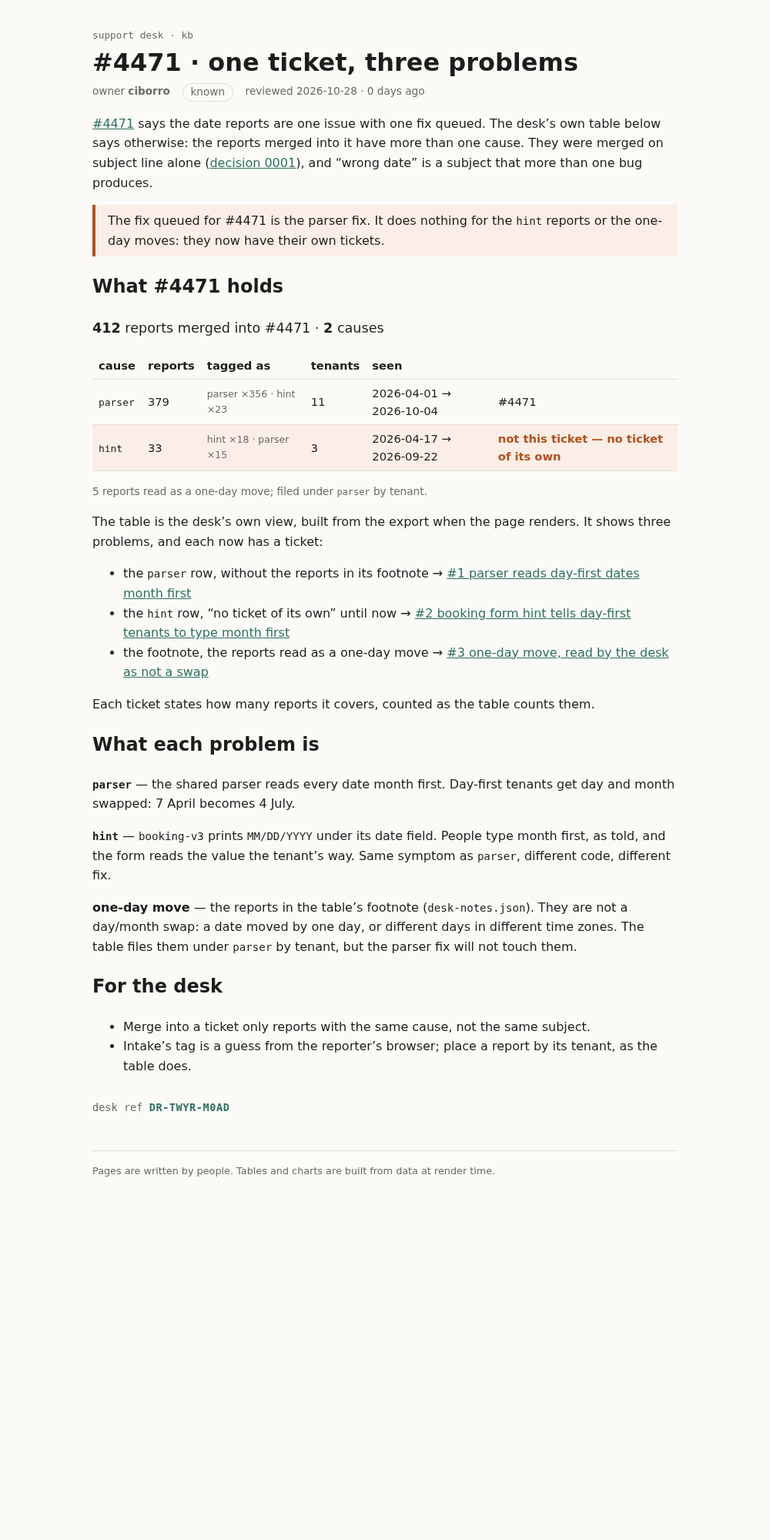
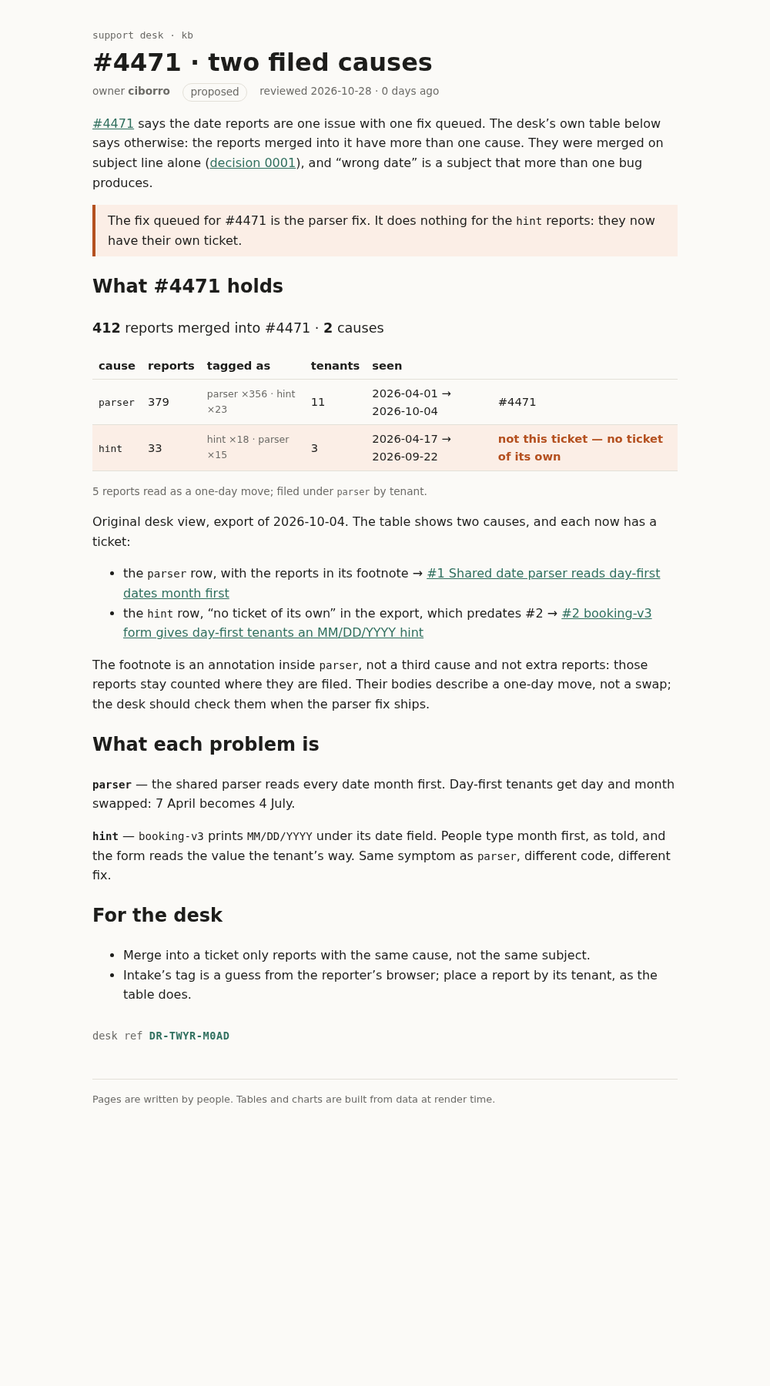
Astra proposal: two filed causes, parser 379 with the footnote inside, page maps rows to #1 and #2

Changed region(s): [[0.124, 0.0, 0.868, 0.7778], [0.62, 0.2489, 0.868, 0.3422]]

diff --git a/build/kb/incidents/4471/split/index.html b/build/kb/incidents/4471/split/index.html
@@ -9,44 +9,44 @@
 		<link href="../../../../_app/immutable/chunks/B2Ul7l_u.js" rel="modulepreload">
 		<link href="../../../../_app/immutable/chunks/BCPXOG7W.js" rel="modulepreload">
 		<link href="../../../../_app/immutable/chunks/Dh1V97Jm.js" rel="modulepreload">
-		<link href="../../../../_app/immutable/entry/app.Cca4f7fe.js" rel="modulepreload">
+		<link href="../../../../_app/immutable/entry/app.dMFu7ReV.js" rel="modulepreload">
 		<link href="../../../../_app/immutable/nodes/0.BurGglGN.js" rel="modulepreload">
 		<link href="../../../../_app/immutable/chunks/DK3Fl9T5.js" rel="modulepreload">
-		<link href="../../../../_app/immutable/nodes/5.B5k5ff7r.js" rel="modulepreload">
-		<link href="../../../../_app/immutable/chunks/BSvyF6my.js" rel="modulepreload">
+		<link href="../../../../_app/immutable/nodes/5.CkUPMJ-E.js" rel="modulepreload">
+		<link href="../../../../_app/immutable/chunks/iRmLPYwJ.js" rel="modulepreload">
 		<link href="../../../../_app/immutable/chunks/BTPwLomz.js" rel="modulepreload">
 		<link href="../../../../_app/immutable/chunks/D_eX76ox.js" rel="modulepreload">
 		<link href="../../../../_app/immutable/chunks/BIy4WKJS.js" rel="modulepreload">
-		<!--e2jw2j--><!----><title>#4471 · one ticket, three problems · support kb</title>
+		<!--e2jw2j--><!----><title>#4471 · two filed causes · support kb</title>
 		<link href="../../../../_app/immutable/assets/runbook.COyw0cbZ.css" rel="stylesheet">
 		<link href="../../../../_app/immutable/assets/Callout.AbLv9dM_.css" rel="stylesheet">
 		<link href="../../../../_app/immutable/assets/CauseTable.DuKfINX_.css" rel="stylesheet">
 		<link href="../../../../_app/immutable/assets/_page.WePi3wDe.css" rel="stylesheet">
   </head>
   <body>
-    <div style="display: contents"><!--[--><!--[--><!--[0--><!--[--><!--[--><!--[-1--><!--[--><div class="kb svelte-e2jw2j"><header><a class="crumb svelte-e2jw2j" href="/kb">support desk · kb</a> <h1 class="svelte-e2jw2j">#4471 · one ticket, three problems</h1> <p class="meta svelte-e2jw2j"><span>owner <b>ciborro</b></span> <span class="status known svelte-e2jw2j">known</span> <span class="svelte-e2jw2j">reviewed 2026-10-28 · 0 days ago</span></p></header> <!--[-1--><!--]--> <main><p><a href="/kb/incidents/4471">#4471</a> says the date reports are one issue with one fix queued. The desk’s own
+    <div style="display: contents"><!--[--><!--[--><!--[0--><!--[--><!--[--><!--[-1--><!--[--><div class="kb svelte-e2jw2j"><header><a class="crumb svelte-e2jw2j" href="/kb">support desk · kb</a> <h1 class="svelte-e2jw2j">#4471 · two filed causes</h1> <p class="meta svelte-e2jw2j"><span>owner <b>ciborro</b></span> <span class="status proposed svelte-e2jw2j">proposed</span> <span class="svelte-e2jw2j">reviewed 2026-10-28 · 0 days ago</span></p></header> <!--[-1--><!--]--> <main><p><a href="/kb/incidents/4471">#4471</a> says the date reports are one issue with one fix queued. The desk’s own
 table below says otherwise: the reports merged into it have more than one cause. They were merged on
 subject line alone (<a href="/kb/decisions/0001-dedupe-by-subject">decision 0001</a>), and “wrong date” is a
-subject that more than one bug produces.</p> <aside class="warn svelte-17bri61"><!---->The fix queued for #4471 is the parser fix. It does nothing for the <code>hint</code> reports or the
-one-day moves: they now have their own tickets.<!----></aside><!----> <h2>What #4471 holds</h2> <p class="sum svelte-12oyimm"><strong>412</strong> reports merged into #4471 · <strong>2</strong> causes</p> <table><thead><tr><th>cause</th><th>reports</th><th>tagged as</th><th>tenants</th><th>seen</th><th></th></tr></thead><tbody><!--[--><tr class="svelte-12oyimm"><td class="svelte-12oyimm"><code>parser</code></td><td class="svelte-12oyimm">379</td><td class="tags svelte-12oyimm">parser ×356 · hint ×23</td><td class="svelte-12oyimm">11</td><td class="svelte-12oyimm">2026-04-01 → 2026-10-04</td><td class="svelte-12oyimm">#4471</td></tr><tr class="svelte-12oyimm wrong"><td class="svelte-12oyimm"><code>hint</code></td><td class="svelte-12oyimm">33</td><td class="tags svelte-12oyimm">hint ×18 · parser ×15</td><td class="svelte-12oyimm">3</td><td class="svelte-12oyimm">2026-04-17 → 2026-09-22</td><td class="svelte-12oyimm">not this ticket — no ticket of its own</td></tr><!--]--></tbody></table> <!--[--><!--[0--><p class="note svelte-12oyimm">5 reports read as a one-day move; filed under <code>parser</code> by tenant.</p><!--]--><!--[-1--><!--]--><!--]--><!----> <p>The table is the desk’s own view, built from the export when the page renders. It shows three
-problems, and each now has a ticket:</p> <ul><li>the <code>parser</code> row, without the reports in its footnote → <a href="https://github.com/ciborro/mega-what-it-shows-4/issues/1" rel="nofollow">#1 parser reads day-first dates month first</a></li> <li>the <code>hint</code> row, “no ticket of its own” until now → <a href="https://github.com/ciborro/mega-what-it-shows-4/issues/2" rel="nofollow">#2 booking form hint tells day-first tenants to type month first</a></li> <li>the footnote, the reports read as a one-day move → <a href="https://github.com/ciborro/mega-what-it-shows-4/issues/3" rel="nofollow">#3 one-day move, read by the desk as not a swap</a></li></ul> <p>Each ticket states how many reports it covers, counted as the table counts them.</p> <h2>What each problem is</h2> <p><strong><code>parser</code></strong> — the shared parser reads every date month first. Day-first tenants get day and month
+subject that more than one bug produces.</p> <aside class="warn svelte-17bri61"><!---->The fix queued for #4471 is the parser fix. It does nothing for the <code>hint</code> reports: they
+now have their own ticket.<!----></aside><!----> <h2>What #4471 holds</h2> <p class="sum svelte-12oyimm"><strong>412</strong> reports merged into #4471 · <strong>2</strong> causes</p> <table><thead><tr><th>cause</th><th>reports</th><th>tagged as</th><th>tenants</th><th>seen</th><th></th></tr></thead><tbody><!--[--><tr class="svelte-12oyimm"><td class="svelte-12oyimm"><code>parser</code></td><td class="svelte-12oyimm">379</td><td class="tags svelte-12oyimm">parser ×356 · hint ×23</td><td class="svelte-12oyimm">11</td><td class="svelte-12oyimm">2026-04-01 → 2026-10-04</td><td class="svelte-12oyimm">#4471</td></tr><tr class="svelte-12oyimm wrong"><td class="svelte-12oyimm"><code>hint</code></td><td class="svelte-12oyimm">33</td><td class="tags svelte-12oyimm">hint ×18 · parser ×15</td><td class="svelte-12oyimm">3</td><td class="svelte-12oyimm">2026-04-17 → 2026-09-22</td><td class="svelte-12oyimm">not this ticket — no ticket of its own</td></tr><!--]--></tbody></table> <!--[--><!--[0--><p class="note svelte-12oyimm">5 reports read as a one-day move; filed under <code>parser</code> by tenant.</p><!--]--><!--[-1--><!--]--><!--]--><!----> <p>Original desk view, export of 2026-10-04. The table shows two causes, and each now has a ticket:</p> <ul><li>the <code>parser</code> row, with the reports in its footnote → <a href="https://github.com/ciborro/mega-what-it-shows-4/issues/1" rel="nofollow">#1 Shared date parser reads day-first dates month first</a></li> <li>the <code>hint</code> row, “no ticket of its own” in the export, which predates #2 → <a href="https://github.com/ciborro/mega-what-it-shows-4/issues/2" rel="nofollow">#2 booking-v3 form gives day-first tenants an MM/DD/YYYY hint</a></li></ul> <p>The footnote is an annotation inside <code>parser</code>, not a third cause and not extra reports: those reports
+stay counted where they are filed. Their bodies describe a one-day move, not a swap; the desk should
+check them when the parser fix ships.</p> <h2>What each problem is</h2> <p><strong><code>parser</code></strong> — the shared parser reads every date month first. Day-first tenants get day and month
 swapped: 7 April becomes 4 July.</p> <p><strong><code>hint</code></strong> — <code>booking-v3</code> prints <code>MM/DD/YYYY</code> under its date field. People type month first, as told,
 and the form reads the value the tenant’s way. Same symptom as <code>parser</code>, different code, different
-fix.</p> <p><strong>one-day move</strong> — the reports in the table’s footnote (<code>desk-notes.json</code>). They are not a day/month
-swap: a date moved by one day, or different days in different time zones. The table files them under <code>parser</code> by tenant, but the parser fix will not touch them.</p> <h2>For the desk</h2> <ul><li>Merge into a ticket only reports with the same cause, not the same subject.</li> <li>Intake’s tag is a guess from the reporter’s browser; place a report by its tenant, as the table does.</li></ul> <!--[0--><p class="stamp svelte-1280m42">desk ref <b class="svelte-1280m42">DR-TWYR-M0AD</b></p><!--]--><!----><!----></main> <footer class="svelte-e2jw2j">Pages are written by people. Tables and charts are built from data at render time.</footer></div><!--]--><!--]--><!--]--><!----><!--]--><!--]--><!--]--><!----> <!--[-1--><!--]--><!--]-->
+fix.</p> <h2>For the desk</h2> <ul><li>Merge into a ticket only reports with the same cause, not the same subject.</li> <li>Intake’s tag is a guess from the reporter’s browser; place a report by its tenant, as the table does.</li></ul> <!--[0--><p class="stamp svelte-1280m42">desk ref <b class="svelte-1280m42">DR-TWYR-M0AD</b></p><!--]--><!----><!----></main> <footer class="svelte-e2jw2j">Pages are written by people. Tables and charts are built from data at render time.</footer></div><!--]--><!--]--><!--]--><!----><!--]--><!--]--><!--]--><!----> <!--[-1--><!--]--><!--]-->
 			
 			<script>
 				{
-					__sveltekit_10duqr7 = {
+					__sveltekit_j077o8 = {
 						base: new URL("../../../..", location).pathname.slice(0, -1),
-						version: "1793199039890"
+						version: "1793199145617"
 					};
 
 					const element = document.currentScript.parentElement;
 
 					import("../../../../_app/immutable/entry/start.CH5w6lId.js").then(async (kit) => {
-						kit.init(__sveltekit_10duqr7);
-						const app = await import("../../../../_app/immutable/entry/app.Cca4f7fe.js");
+						kit.init(__sveltekit_j077o8);
+						const app = await import("../../../../_app/immutable/entry/app.dMFu7ReV.js");
 						kit.start(app, element, {
 							node_ids: [0, 5],
 							data: [null,null],

diff --git a/build/kb/index.html b/build/kb/index.html
@@ -9,16 +9,16 @@
 		<link href="../_app/immutable/chunks/B2Ul7l_u.js" rel="modulepreload">
 		<link href="../_app/immutable/chunks/BCPXOG7W.js" rel="modulepreload">
 		<link href="../_app/immutable/chunks/Dh1V97Jm.js" rel="modulepreload">
-		<link href="../_app/immutable/entry/app.Cca4f7fe.js" rel="modulepreload">
+		<link href="../_app/immutable/entry/app.dMFu7ReV.js" rel="modulepreload">
 		<link href="../_app/immutable/nodes/0.BurGglGN.js" rel="modulepreload">
 		<link href="../_app/immutable/chunks/DK3Fl9T5.js" rel="modulepreload">
-		<link href="../_app/immutable/nodes/2.DeER2Mf5.js" rel="modulepreload">
+		<link href="../_app/immutable/nodes/2.BlcdAe_4.js" rel="modulepreload">
 		<link href="../_app/immutable/chunks/BTPwLomz.js" rel="modulepreload">
 		<link href="../_app/immutable/chunks/YX22L_Ud.js" rel="modulepreload">
 		<link href="../_app/immutable/chunks/C7NBqcQG.js" rel="modulepreload">
 		<link href="../_app/immutable/chunks/D_eX76ox.js" rel="modulepreload">
 		<link href="../_app/immutable/chunks/BIy4WKJS.js" rel="modulepreload">
-		<link href="../_app/immutable/chunks/BSvyF6my.js" rel="modulepreload">
+		<link href="../_app/immutable/chunks/iRmLPYwJ.js" rel="modulepreload">
 		<link href="../_app/immutable/chunks/BGqJVSDw.js" rel="modulepreload">
 		<!--e2jw2j--><!----><title>Support knowledge base · support kb</title>
 		<link href="../_app/immutable/assets/runbook.COyw0cbZ.css" rel="stylesheet">
@@ -30,21 +30,21 @@
 		<link href="../_app/immutable/assets/2.Bt0MwIZg.css" rel="stylesheet">
   </head>
   <body>
-    <div style="display: contents"><!--[--><!--[--><!--[0--><!--[--><!--[--><!--[-1--><!--[--><div class="kb svelte-e2jw2j"><header><a class="crumb svelte-e2jw2j" href="/kb">support desk · kb</a> <h1 class="svelte-e2jw2j">Support knowledge base</h1> <p class="meta svelte-e2jw2j"><span>owner <b>support desk</b></span> <span class="status living svelte-e2jw2j">living</span> <span class="svelte-e2jw2j">reviewed 2026-09-28 · 30 days ago</span></p></header> <!--[-1--><!--]--> <main><p>What the support desk knows, kept next to the code that knows it. One desk, every product: <code>sched-prod</code> (calendar invites for about 300k people) and the rest. When something breaks, the reports land here first.</p> <p>Start with <a href="/kb/triage/dedupe">triage</a> if you are new on the desk.</p> <h2>Pages</h2> <table><thead><tr><th>page</th><th>owner</th><th>status</th><th>reviewed</th></tr></thead><tbody><!--[--><tr><td><a href="/kb/decisions/0001-dedupe-by-subject">0001 · Duplicates share a subject line</a></td><td>rune</td><td>accepted</td><td class="svelte-tbc1ha stale">2024-06-11</td></tr><tr><td><a href="/kb/incidents/4471">#4471 · dates parse mm/dd in eu locales</a></td><td>support desk</td><td>known</td><td class="svelte-tbc1ha">2026-09-30</td></tr><tr><td><a href="/kb/incidents/4471/split">#4471 · one ticket, three problems</a></td><td>ciborro</td><td>known</td><td class="svelte-tbc1ha">2026-10-28</td></tr><tr><td><a href="/kb/triage/dedupe">Triage: duplicate reports</a></td><td>support desk</td><td>accepted</td><td class="svelte-tbc1ha stale">2024-06-11</td></tr><!--]--></tbody></table><!----> <h2>Writing a page</h2> <p>Keep the words here and the logic in <code>src/lib</code>. A number that can be computed should be
+    <div style="display: contents"><!--[--><!--[--><!--[0--><!--[--><!--[--><!--[-1--><!--[--><div class="kb svelte-e2jw2j"><header><a class="crumb svelte-e2jw2j" href="/kb">support desk · kb</a> <h1 class="svelte-e2jw2j">Support knowledge base</h1> <p class="meta svelte-e2jw2j"><span>owner <b>support desk</b></span> <span class="status living svelte-e2jw2j">living</span> <span class="svelte-e2jw2j">reviewed 2026-09-28 · 30 days ago</span></p></header> <!--[-1--><!--]--> <main><p>What the support desk knows, kept next to the code that knows it. One desk, every product: <code>sched-prod</code> (calendar invites for about 300k people) and the rest. When something breaks, the reports land here first.</p> <p>Start with <a href="/kb/triage/dedupe">triage</a> if you are new on the desk.</p> <h2>Pages</h2> <table><thead><tr><th>page</th><th>owner</th><th>status</th><th>reviewed</th></tr></thead><tbody><!--[--><tr><td><a href="/kb/decisions/0001-dedupe-by-subject">0001 · Duplicates share a subject line</a></td><td>rune</td><td>accepted</td><td class="svelte-tbc1ha stale">2024-06-11</td></tr><tr><td><a href="/kb/incidents/4471">#4471 · dates parse mm/dd in eu locales</a></td><td>support desk</td><td>known</td><td class="svelte-tbc1ha">2026-09-30</td></tr><tr><td><a href="/kb/incidents/4471/split">#4471 · two filed causes</a></td><td>ciborro</td><td>proposed</td><td class="svelte-tbc1ha">2026-10-28</td></tr><tr><td><a href="/kb/triage/dedupe">Triage: duplicate reports</a></td><td>support desk</td><td>accepted</td><td class="svelte-tbc1ha stale">2024-06-11</td></tr><!--]--></tbody></table><!----> <h2>Writing a page</h2> <p>Keep the words here and the logic in <code>src/lib</code>. A number that can be computed should be
 computed by a component, not typed into a paragraph.</p><!----></main> <footer class="svelte-e2jw2j">Pages are written by people. Tables and charts are built from data at render time.</footer></div><!--]--><!--]--><!--]--><!----><!--]--><!--]--><!--]--><!----> <!--[-1--><!--]--><!--]-->
 			
 			<script>
 				{
-					__sveltekit_10duqr7 = {
+					__sveltekit_j077o8 = {
 						base: new URL("..", location).pathname.slice(0, -1),
-						version: "1793199039890"
+						version: "1793199145617"
 					};
 
 					const element = document.currentScript.parentElement;
 
 					import("../_app/immutable/entry/start.CH5w6lId.js").then(async (kit) => {
-						kit.init(__sveltekit_10duqr7);
-						const app = await import("../_app/immutable/entry/app.Cca4f7fe.js");
+						kit.init(__sveltekit_j077o8);
+						const app = await import("../_app/immutable/entry/app.dMFu7ReV.js");
 						kit.start(app, element, {
 							node_ids: [0, 2],
 							data: [null,null],

diff --git a/build/_app/immutable/chunks/iRmLPYwJ.js b/build/_app/immutable/chunks/iRmLPYwJ.js
@@ -1,0 +1,10 @@
+import{t as e}from"./DK3Fl9T5.js";import{E as t,F as n,H as r,I as i,K as a,L as o,N as s,R as c,S as l,T as u,U as d,W as f,_ as p,k as m,q as h,r as g,t as _,w as v}from"./BCPXOG7W.js";import{t as y}from"./BTPwLomz.js";import{t as b}from"./D_eX76ox.js";import{t as x}from"./BIy4WKJS.js";var S=`0123456789ABCDEFGHJKMNPQRSTVWXYZ`;function C(e,t){let n=t>>>0;for(let t=0;t<e.length;t++)n^=e.charCodeAt(t),n=Math.imul(n,16777619)>>>0;return n}function w(e){let t=e.trim(),n=C(t,2166136261),r=C(t,2654435769),i=BigInt(n)<<8n|BigInt(r&255),a=``;for(let e=0;e<8;e++)a=S[Number(i&31n)]+a,i>>=5n;return`DR-${a.slice(0,4)}-${a.slice(4)}`}var T=t(`<p class="stamp svelte-1280m42">desk ref <b class="svelte-1280m42"> </b></p>`),E=t(`<p class="stamp missing svelte-1280m42">no desk ref: this page isn't signed (no <code>signature</code> in its frontmatter)</p>`);function D(e,t){f(t,!0);let a=r(()=>t.signature?w(t.signature):null);var g=u(),_=i(g),y=e=>{var t=T(),r=c(n(t)),i=o(r,!0);h(t),s(()=>l(i,m(a))),v(e,t)},b=e=>{var t=E();v(e,t)};p(_,e=>{m(a)?e(y):e(b,-1)}),v(e,g),d()}var O=e({default:()=>R,metadata:()=>k}),k={layout:`runbook`,title:`#4471 · two filed causes`,owner:`ciborro`,status:`proposed`,reviewed:`2026-10-28T00:00:00.000Z`,signature:`v1.eyJzdWIiOiIyODYiLCJhdWQiOiJjaGFsbGVuZ2U6d2hhdC1pdC1zaG93cyIsImlhdCI6MTc5MzE3NjM4NiwiZXhwIjoxNzkzMjYyNzg2fQ.j79rU9MDnSB-khljI1hi5X2SErN8lyOdgl7BDHodlxg`},{layout:A,title:j,owner:M,status:N,reviewed:P,signature:F}=k,I=t(`The fix queued for #4471 is the parser fix. It does nothing for the <code>hint</code> reports: they
+now have their own ticket.`,1),L=t(`<p><a href="/kb/incidents/4471">#4471</a> says the date reports are one issue with one fix queued. The desk’s own
+table below says otherwise: the reports merged into it have more than one cause. They were merged on
+subject line alone (<a href="/kb/decisions/0001-dedupe-by-subject">decision 0001</a>), and “wrong date” is a
+subject that more than one bug produces.</p> <!> <h2>What #4471 holds</h2> <!> <p>Original desk view, export of 2026-10-04. The table shows two causes, and each now has a ticket:</p> <ul><li>the <code>parser</code> row, with the reports in its footnote → <a href="https://github.com/ciborro/mega-what-it-shows-4/issues/1" rel="nofollow">#1 Shared date parser reads day-first dates month first</a></li> <li>the <code>hint</code> row, “no ticket of its own” in the export, which predates #2 → <a href="https://github.com/ciborro/mega-what-it-shows-4/issues/2" rel="nofollow">#2 booking-v3 form gives day-first tenants an MM/DD/YYYY hint</a></li></ul> <p>The footnote is an annotation inside <code>parser</code>, not a third cause and not extra reports: those reports
+stay counted where they are filed. Their bodies describe a one-day move, not a swap; the desk should
+check them when the parser fix ships.</p> <h2>What each problem is</h2> <p><strong><code>parser</code></strong> — the shared parser reads every date month first. Day-first tenants get day and month
+swapped: 7 April becomes 4 July.</p> <p><strong><code>hint</code></strong> — <code>booking-v3</code> prints <code>MM/DD/YYYY</code> under its date field. People type month first, as told,
+and the form reads the value the tenant’s way. Same symptom as <code>parser</code>, different code, different
+fix.</p> <h2>For the desk</h2> <ul><li>Merge into a ticket only reports with the same cause, not the same subject.</li> <li>Intake’s tag is a guess from the reporter’s browser; place a report by its tenant, as the table does.</li></ul> <!>`,1);function R(e,t){let n=_(t,[`children`,`$$slots`,`$$events`,`$$legacy`]);y(e,g(()=>n,()=>k,{children:(e,t)=>{var n=L(),r=c(i(n),2);x(r,{kind:`warn`,children:(e,t)=>{a();var n=I();a(2),v(e,n)},$$slots:{default:!0}});var o=c(r,4);b(o,{ticket:4471}),D(c(o,18),{get signature(){return F}}),v(e,n)},$$slots:{default:!0}}))}export{R as n,O as t};

diff --git a/build/_app/immutable/nodes/2.BlcdAe_4.js b/build/_app/immutable/nodes/2.BlcdAe_4.js
@@ -1,0 +1,2 @@
+import{E as e,F as t,I as n,K as r,L as i,N as a,R as o,S as s,U as c,W as l,c as u,d,h as f,i as p,k as m,q as h,r as g,t as _,w as v}from"../chunks/BCPXOG7W.js";import{n as y,r as b,t as x}from"../chunks/BTPwLomz.js";import{t as S}from"../chunks/YX22L_Ud.js";import{t as C}from"../chunks/C7NBqcQG.js";import{t as w}from"../chunks/iRmLPYwJ.js";import{t as T}from"../chunks/BGqJVSDw.js";var E=e(`<tr><td><a> </a></td><td> </td><td> </td><td> </td></tr>`),D=e(`<table><thead><tr><th>page</th><th>owner</th><th>status</th><th>reviewed</th></tr></thead><tbody></tbody></table>`);function O(e,n){l(n,!1);let r=Object.entries(Object.assign({"/src/routes/kb/decisions/0001-dedupe-by-subject/+page.svx":S,"/src/routes/kb/incidents/4471/+page.svx":C,"/src/routes/kb/incidents/4471/split/+page.svx":w,"/src/routes/kb/triage/dedupe/+page.svx":T})).map(([e,t])=>({href:e.replace(`/src/routes`,``).replace(`/+page.svx`,``),...t.metadata})).sort((e,t)=>e.href.localeCompare(t.href));p();var g=D(),_=o(t(g));f(_,5,()=>r,e=>e.href,(e,n)=>{var r=E(),c=t(r),l=t(c),f=i(l,!0);h(c);var p=o(c),g=i(p,!0),_=o(p),x=i(_,!0),S=o(_);let C;var w=i(S,!0);h(r),a((e,t)=>{u(l,`href`,m(n).href),s(f,m(n).title),s(g,m(n).owner),s(x,m(n).status),C=d(S,1,`svelte-tbc1ha`,null,C,{stale:e}),s(w,t)},[()=>y(m(n).reviewed)>180,()=>b(m(n).reviewed)]),v(e,r)}),h(_),h(g),v(e,g),c()}var k={layout:`runbook`,title:`Support knowledge base`,owner:`support desk`,status:`living`,reviewed:`2026-09-28T00:00:00.000Z`},{layout:A,title:j,owner:M,status:N,reviewed:P}=k,F=e(`<p>What the support desk knows, kept next to the code that knows it. One desk, every product: <code>sched-prod</code> (calendar invites for about 300k people) and the rest. When something breaks, the reports land here first.</p> <p>Start with <a href="/kb/triage/dedupe">triage</a> if you are new on the desk.</p> <h2>Pages</h2> <!> <h2>Writing a page</h2> <p>Keep the words here and the logic in <code>src/lib</code>. A number that can be computed should be
+computed by a component, not typed into a paragraph.</p>`,1);function I(e,t){let i=_(t,[`children`,`$$slots`,`$$events`,`$$legacy`]);x(e,g(()=>i,()=>k,{children:(e,t)=>{var i=F();O(o(n(i),6),{}),r(4),v(e,i)},$$slots:{default:!0}}))}export{I as component};

diff --git a/build/_app/immutable/entry/app.dMFu7ReV.js b/build/_app/immutable/entry/app.dMFu7ReV.js
@@ -1,0 +1,2 @@
+const __vite__mapDeps=(i,m=__vite__mapDeps,d=(m.f||(m.f=["../nodes/0.BurGglGN.js","../chunks/DK3Fl9T5.js","../chunks/BCPXOG7W.js","../nodes/1.mOwa9YdW.js","../chunks/Dh1V97Jm.js","./payload.DSmR2FwN.js","../nodes/2.BlcdAe_4.js","../chunks/BTPwLomz.js","../assets/runbook.COyw0cbZ.css","../chunks/YX22L_Ud.js","../chunks/C7NBqcQG.js","../chunks/D_eX76ox.js","../chunks/BIy4WKJS.js","../assets/Callout.AbLv9dM_.css","../assets/CauseTable.DuKfINX_.css","../assets/_page.BwRNheVv.css","../chunks/iRmLPYwJ.js","../assets/_page.WePi3wDe.css","../chunks/BGqJVSDw.js","../assets/_page.DO6Yid7X.css","../assets/2.Bt0MwIZg.css","../nodes/3.DRxPfvn3.js","../nodes/4.r04HXAAh.js","../nodes/5.CkUPMJ-E.js","../nodes/6.sFtxrtyV.js"])))=>i.map(i=>d[i]);
+import{t as e}from"../chunks/CRzLMJPS.js";var t={},n=[()=>e(()=>import(`../nodes/0.BurGglGN.js`),__vite__mapDeps([0,1,2]),import.meta.url),()=>e(()=>import(`../nodes/1.mOwa9YdW.js`),__vite__mapDeps([3,2,4,5]),import.meta.url),()=>e(()=>import(`../nodes/2.BlcdAe_4.js`),__vite__mapDeps([6,2,7,8,9,1,10,11,12,13,14,15,16,17,18,19,20]),import.meta.url),()=>e(()=>import(`../nodes/3.DRxPfvn3.js`),__vite__mapDeps([21,9,1,2,7,8]),import.meta.url),()=>e(()=>import(`../nodes/4.r04HXAAh.js`),__vite__mapDeps([22,10,1,2,7,8,11,12,13,14,15]),import.meta.url),()=>e(()=>import(`../nodes/5.CkUPMJ-E.js`),__vite__mapDeps([23,16,1,2,7,8,11,12,13,14,17]),import.meta.url),()=>e(()=>import(`../nodes/6.sFtxrtyV.js`),__vite__mapDeps([24,18,1,2,7,8,12,13,19]),import.meta.url)],r=[],i={"/kb":[2],"/kb/decisions/0001-dedupe-by-subject":[3],"/kb/incidents/4471":[4],"/kb/incidents/4471/split":[5],"/kb/triage/dedupe":[6]},a={handleError:(({kind:e,error:t})=>{e===`unknown`&&console.error(t)}),reroute:(()=>{}),transport:{}},o=Object.fromEntries(Object.entries(a.transport).map(([e,t])=>[e,t.decode])),s=Object.fromEntries(Object.entries(a.transport).map(([e,t])=>[e,t.encode])),c=!1,l=(e,t)=>o[e](t),u=()=>e(()=>import(`../chunks/Bjy-W4x2.js`).then(e=>e.default),[],import.meta.url);export{l as decode,o as decoders,i as dictionary,s as encoders,u as get_error_template,c as hash,a as hooks,t as matchers,n as nodes,r as server_loads};

diff --git a/build/kb/decisions/0001-dedupe-by-subject/index.html b/build/kb/decisions/0001-dedupe-by-subject/index.html
@@ -9,7 +9,7 @@
 		<link href="../../../_app/immutable/chunks/B2Ul7l_u.js" rel="modulepreload">
 		<link href="../../../_app/immutable/chunks/BCPXOG7W.js" rel="modulepreload">
 		<link href="../../../_app/immutable/chunks/Dh1V97Jm.js" rel="modulepreload">
-		<link href="../../../_app/immutable/entry/app.Cca4f7fe.js" rel="modulepreload">
+		<link href="../../../_app/immutable/entry/app.dMFu7ReV.js" rel="modulepreload">
 		<link href="../../../_app/immutable/nodes/0.BurGglGN.js" rel="modulepreload">
 		<link href="../../../_app/immutable/chunks/DK3Fl9T5.js" rel="modulepreload">
 		<link href="../../../_app/immutable/nodes/3.DRxPfvn3.js" rel="modulepreload">
@@ -26,16 +26,16 @@ engineering merges them later.</li></ul><!----></main> <footer class="svelte-e2j
 			
 			<script>
 				{
-					__sveltekit_10duqr7 = {
+					__sveltekit_j077o8 = {
 						base: new URL("../../..", location).pathname.slice(0, -1),
-						version: "1793199039890"
+						version: "1793199145617"
 					};
 
 					const element = document.currentScript.parentElement;
 
 					import("../../../_app/immutable/entry/start.CH5w6lId.js").then(async (kit) => {
-						kit.init(__sveltekit_10duqr7);
-						const app = await import("../../../_app/immutable/entry/app.Cca4f7fe.js");
+						kit.init(__sveltekit_j077o8);
+						const app = await import("../../../_app/immutable/entry/app.dMFu7ReV.js");
 						kit.start(app, element, {
 							node_ids: [0, 3],
 							data: [null,null],

diff --git a/build/kb/incidents/4471/index.html b/build/kb/incidents/4471/index.html
@@ -9,7 +9,7 @@
 		<link href="../../../_app/immutable/chunks/B2Ul7l_u.js" rel="modulepreload">
 		<link href="../../../_app/immutable/chunks/BCPXOG7W.js" rel="modulepreload">
 		<link href="../../../_app/immutable/chunks/Dh1V97Jm.js" rel="modulepreload">
-		<link href="../../../_app/immutable/entry/app.Cca4f7fe.js" rel="modulepreload">
+		<link href="../../../_app/immutable/entry/app.dMFu7ReV.js" rel="modulepreload">
 		<link href="../../../_app/immutable/nodes/0.BurGglGN.js" rel="modulepreload">
 		<link href="../../../_app/immutable/chunks/DK3Fl9T5.js" rel="modulepreload">
 		<link href="../../../_app/immutable/nodes/4.r04HXAAh.js" rel="modulepreload">
@@ -30,16 +30,16 @@ first. The fix is queued.</p> <aside class="note svelte-17bri61"><!---->Known. O
 			
 			<script>
 				{
-					__sveltekit_10duqr7 = {
+					__sveltekit_j077o8 = {
 						base: new URL("../../..", location).pathname.slice(0, -1),
-						version: "1793199039890"
+						version: "1793199145617"
 					};
 
 					const element = document.currentScript.parentElement;
 
 					import("../../../_app/immutable/entry/start.CH5w6lId.js").then(async (kit) => {
-						kit.init(__sveltekit_10duqr7);
-						const app = await import("../../../_app/immutable/entry/app.Cca4f7fe.js");
+						kit.init(__sveltekit_j077o8);
+						const app = await import("../../../_app/immutable/entry/app.dMFu7ReV.js");
 						kit.start(app, element, {
 							node_ids: [0, 4],
 							data: [null,null],

diff --git a/build/kb/triage/dedupe/index.html b/build/kb/triage/dedupe/index.html
@@ -9,7 +9,7 @@
 		<link href="../../../_app/immutable/chunks/B2Ul7l_u.js" rel="modulepreload">
 		<link href="../../../_app/immutable/chunks/BCPXOG7W.js" rel="modulepreload">
 		<link href="../../../_app/immutable/chunks/Dh1V97Jm.js" rel="modulepreload">
-		<link href="../../../_app/immutable/entry/app.Cca4f7fe.js" rel="modulepreload">
+		<link href="../../../_app/immutable/entry/app.dMFu7ReV.js" rel="modulepreload">
 		<link href="../../../_app/immutable/nodes/0.BurGglGN.js" rel="modulepreload">
 		<link href="../../../_app/immutable/chunks/DK3Fl9T5.js" rel="modulepreload">
 		<link href="../../../_app/immutable/nodes/6.sFtxrtyV.js" rel="modulepreload">
@@ -29,16 +29,16 @@ anything else.<!----></aside><!----> <h2>Try it</h2> <div class="try svelte-gq0h
 			
 			<script>
 				{
-					__sveltekit_10duqr7 = {
+					__sveltekit_j077o8 = {
 						base: new URL("../../..", location).pathname.slice(0, -1),
-						version: "1793199039890"
+						version: "1793199145617"
 					};
 
 					const element = document.currentScript.parentElement;
 
 					import("../../../_app/immutable/entry/start.CH5w6lId.js").then(async (kit) => {
-						kit.init(__sveltekit_10duqr7);
-						const app = await import("../../../_app/immutable/entry/app.Cca4f7fe.js");
+						kit.init(__sveltekit_j077o8);
+						const app = await import("../../../_app/immutable/entry/app.dMFu7ReV.js");
 						kit.start(app, element, {
 							node_ids: [0, 6],
 							data: [null,null],

diff --git a/build/_app/immutable/nodes/5.CkUPMJ-E.js b/build/_app/immutable/nodes/5.CkUPMJ-E.js
@@ -1,0 +1,1 @@
+export{n as component}from"../chunks/iRmLPYwJ.js";
